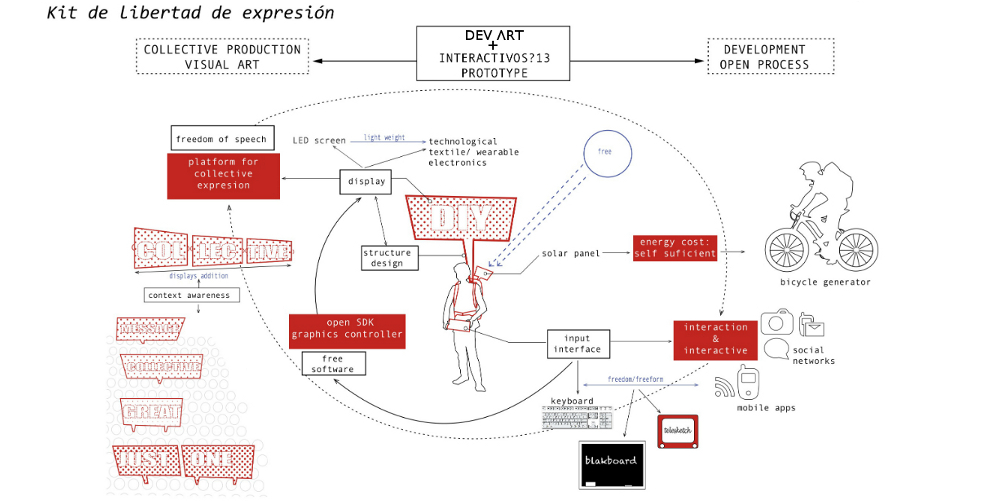
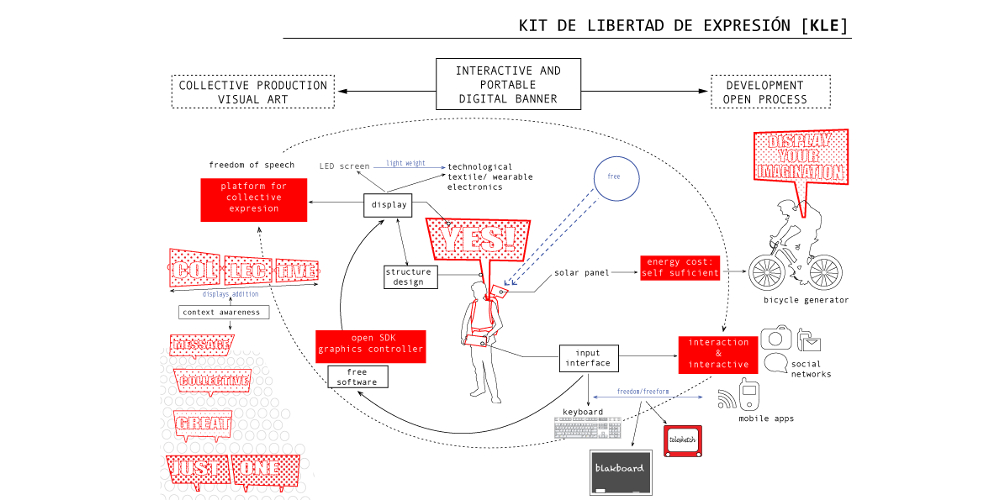
improved description and cover

diff --git a/project_summary.md b/project_summary.md
@@ -1,5 +1,5 @@
 # Project Title
-Kit de Libertad de Expresión / Freedom of Speech Project
+Kit de Libertad de Expresión / Freedom of Speech Kit
 
 ## Authors
 - Anna Carreras www.github.com/acarreras
@@ -7,17 +7,9 @@ Kit de Libertad de Expresión / Freedom of Speech Project
 - Maria Solé Bravo
 
 ## Description
-Insert a description containing about 100 to 150 words, including your motivation and the meaning behind your idea and execution. The Judges will be keen to know how your idea pushes the boundaries of code and technology. 
-
-## Link to Prototype
-
-## Example Code
-
-## Links to External Libraries
+The "Kit de Libertad de Expresión (KLE)" is  an interactive and portable banner where people can send a message to express their claims during social demonstrations.
+Outdoor collective demonstrations have been recently organized through social networks where people act as single entities (from their computers, mobile phones,...). The "Kit de Libertad de Expresión" it's an evolved banner, a social placard which reduces the gap between the individuality using social networks to protest and the collective expression of ideas in a demonstration.
 
 ## Images & Videos
-NOTE: For additional images you can either use a relative link to an image on this repo or an absolute link to an externally hosted image.
-
-![Example Image](project_images/cover.jpg?raw=true "Example Image")
-
-https://www.youtube.com/watch?v=30yGOxJJ2PQ
+![KLE street](project_images/kle_visualization.jpg "KLE street")
+![KLE context](project_images/kle_context.png "KLE context")
